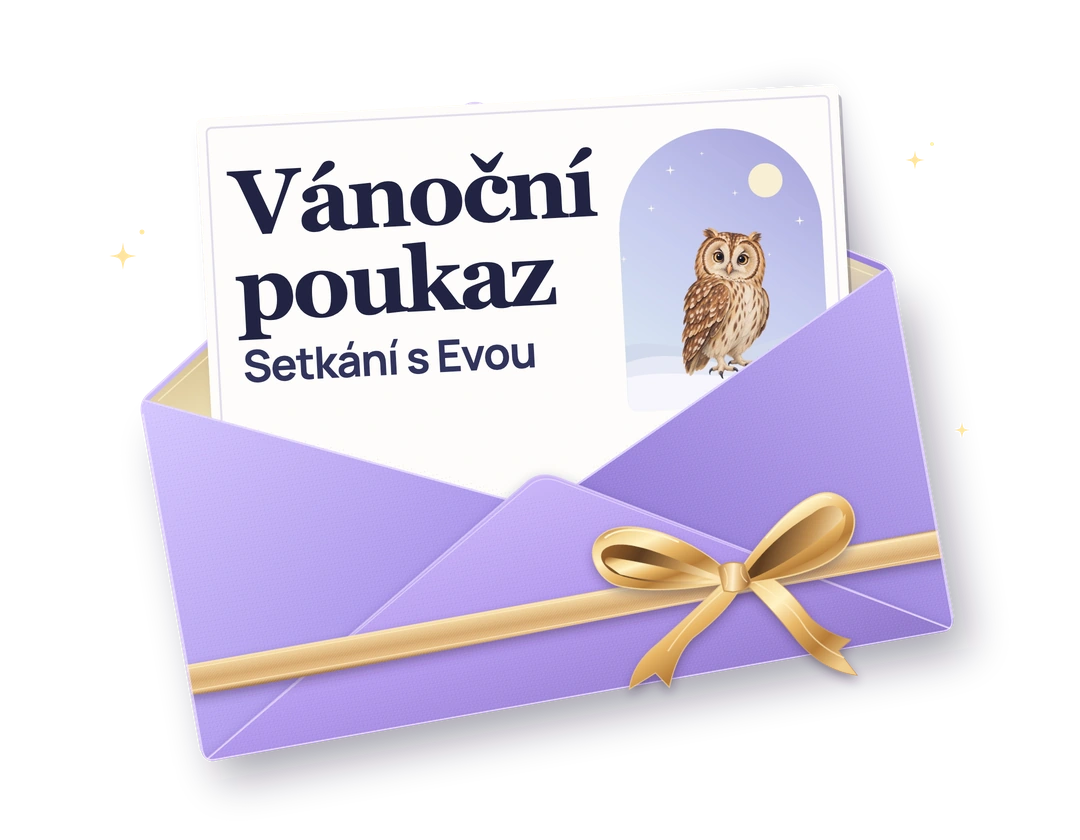
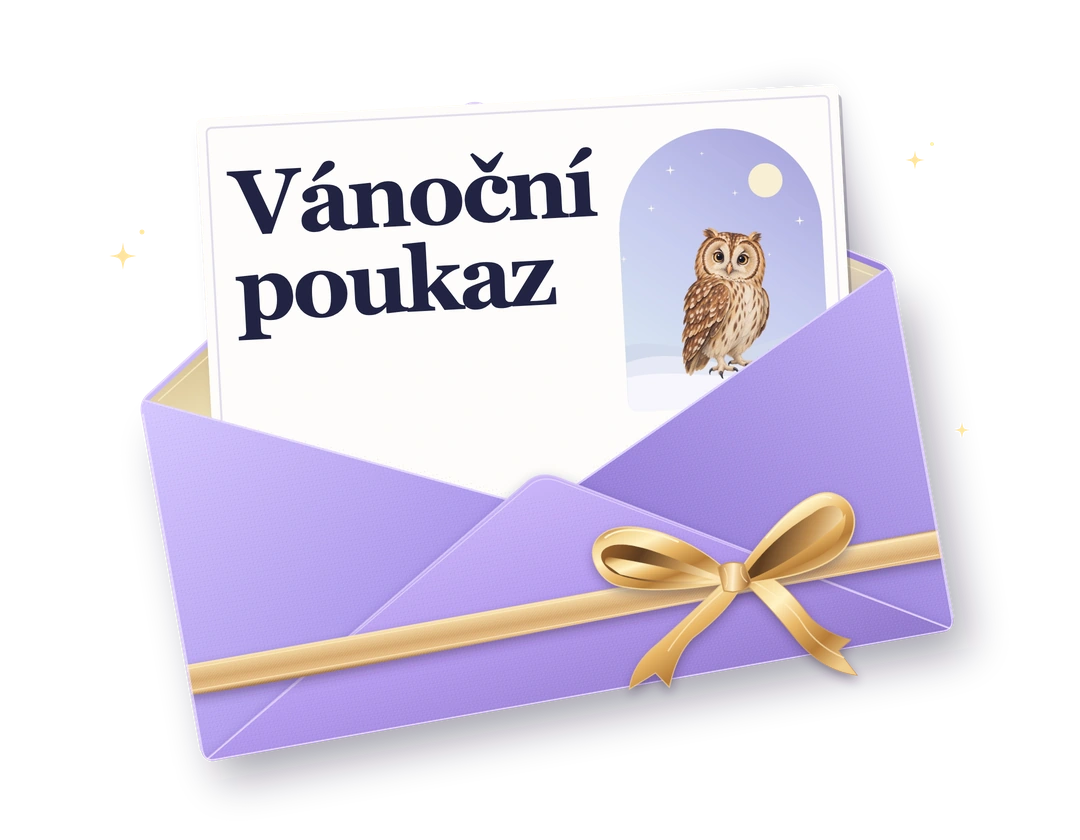
Odebrat podtitulek z karty ve vánoční obálce

Changed region(s): [[0.2139, 0.4024, 0.5194, 0.4643]]

diff --git a/modern-home.js b/modern-home.js
@@ -28,7 +28,7 @@ export function renderModernHome({icon}){
   </section>
   <a class="shell gift-banner gift-night" id="vanocni-poukaz" href="/eva-dvorakova-web/vanocni-poukaz/" aria-label="Prohlédnout vánoční poukaz na setkání s Evou">
    <div class="gift-banner-copy"><h2 id="voucher-title">Hravé setkání <em>pod stromeček.</em></h2></div>
-   <div class="gift-banner-art" aria-hidden="true"><img src="/eva-dvorakova-web/assets/poukaz/darkova-obalka.webp?v=44" width="1080" height="840" alt="" loading="lazy"></div>
+   <div class="gift-banner-art" aria-hidden="true"><img src="/eva-dvorakova-web/assets/poukaz/darkova-obalka.webp?v=45" width="1080" height="840" alt="" loading="lazy"></div>
   </a>
   <section class="shell eva-profile eva-profile-compact" id="o-eve" aria-labelledby="eva-profile-title"><div class="eva-profile-head"><h2 id="eva-profile-title">Dobrý den,<br><em>jsem Eva.</em></h2><a class="mh-open-app" href="/o-mne/" data-link>Více o mně ${icon('arrow')}</a></div><dl class="eva-profile-facts"><div><dt>Od roku 1985</dt><dd>ve školství</dd></div><div><dt>34 let</dt><dd>ve speciální logopedické třídě</dd></div><div><dt>20 let</dt><dd>vedení mateřské školy</dd></div></dl></section>
   <section class="shell eva-flow" id="spoluprace" aria-labelledby="flow-title"><div class="eva-section-heading"><h2 id="flow-title">Začneme rozhovorem.</h2></div><div class="eva-flow-grid"><article><span>01</span><h3>Promluvíme si</h3><p>Řeknete mi, co Vás trápí a co Vaše dítě potřebuje.</p></article><article><span>02</span><h3>Poznáme se</h3><p>Při setkání s dítětem společně zjistíme, na co se zaměřit.</p></article><article><span>03</span><h3>Najdeme další krok</h3><p>Domluvíme si postup a vybereme vhodné hry a materiály.</p></article></div><a class="mh-open-app" href="/kontakt/" data-link>Domluvit rozhovor ${icon('arrow')}</a></section>

diff --git a/vanocni-poukaz/index.html b/vanocni-poukaz/index.html
@@ -13,7 +13,7 @@
   <meta property="og:title" content="Hravé setkání s Evou pod stromeček">
   <meta property="og:description" content="Obrázky, povídání a jedna hra na doma. Prohlédněte si vánoční poukaz pro dítě a rodiče.">
   <meta property="og:url" content="https://sbzspace.github.io/eva-dvorakova-web/vanocni-poukaz/">
-  <meta property="og:image" content="https://sbzspace.github.io/eva-dvorakova-web/assets/poukaz/vanoce-sdileni.jpg?v=44">
+  <meta property="og:image" content="https://sbzspace.github.io/eva-dvorakova-web/assets/poukaz/vanoce-sdileni.jpg?v=45">
   <meta property="og:image:width" content="1200">
   <meta property="og:image:height" content="630">
   <meta property="og:image:alt" content="Vánoční poukaz Evy Dvořákové se sovičkou v dárkové obálce">
@@ -41,7 +41,7 @@
           <p class="gift-lead">Obrázky, povídání a&nbsp;jedna hra na&nbsp;doma <span>pro dítě a&nbsp;rodiče.</span></p>
         </div>
         <a class="gift-visual" href="../assets/poukaz/vanocni-poukaz-vzor.pdf?v=44" data-unwrap aria-label="Otevřít náhled vánočního poukazu">
-          <img class="gift-envelope" src="../assets/poukaz/darkova-obalka.webp?v=44" width="1080" height="840" fetchpriority="high" alt="Vánoční poukaz se sovičkou vykukuje z obálky se zlatou stuhou.">
+          <img class="gift-envelope" src="../assets/poukaz/darkova-obalka.webp?v=45" width="1080" height="840" fetchpriority="high" alt="Vánoční poukaz se sovičkou vykukuje z obálky se zlatou stuhou.">
         </a>
       </section>
     </main>

diff --git a/eva.js b/eva.js
@@ -1,7 +1,7 @@
 import {routeURL,routeParams,pageHref,preparePageLinks} from './pages-router.js?v=eva-notes-13';
 import {runtime} from './runtime.js?v=eva-notes-13';
 import {renderJourney,mountJourney} from './journey.js?v=hra-38';
-import {renderModernHome,gameNoticePage,renderPricing} from './modern-home.js?v=poukaz-44';
+import {renderModernHome,gameNoticePage,renderPricing} from './modern-home.js?v=poukaz-45';
 const site = document.querySelector('#site');
 const art = '/eva-dvorakova-web/assets/illustrations/';
 const esc = value => String(value ?? '').replace(/[&<>"']/g, c => ({'&':'&amp;','<':'&lt;','>':'&gt;','"':'&quot;',"'":'&#39;'}[c]));

diff --git a/index.html b/index.html
@@ -35,7 +35,7 @@
   <link rel="stylesheet" href="/eva-dvorakova-web/clear-34.css?v=hra-38">
   <link rel="stylesheet" href="/eva-dvorakova-web/stranky-36.css?v=36b">
   <link rel="stylesheet" href="/eva-dvorakova-web/advent.css?v=poukaz-44">
-  <script type="module" src="/eva-dvorakova-web/eva.js?v=poukaz-44"></script>
+  <script type="module" src="/eva-dvorakova-web/eva.js?v=poukaz-45"></script>
 </head>
 <body>
   <a class="skip" href="#main">Přejít k obsahu</a>
